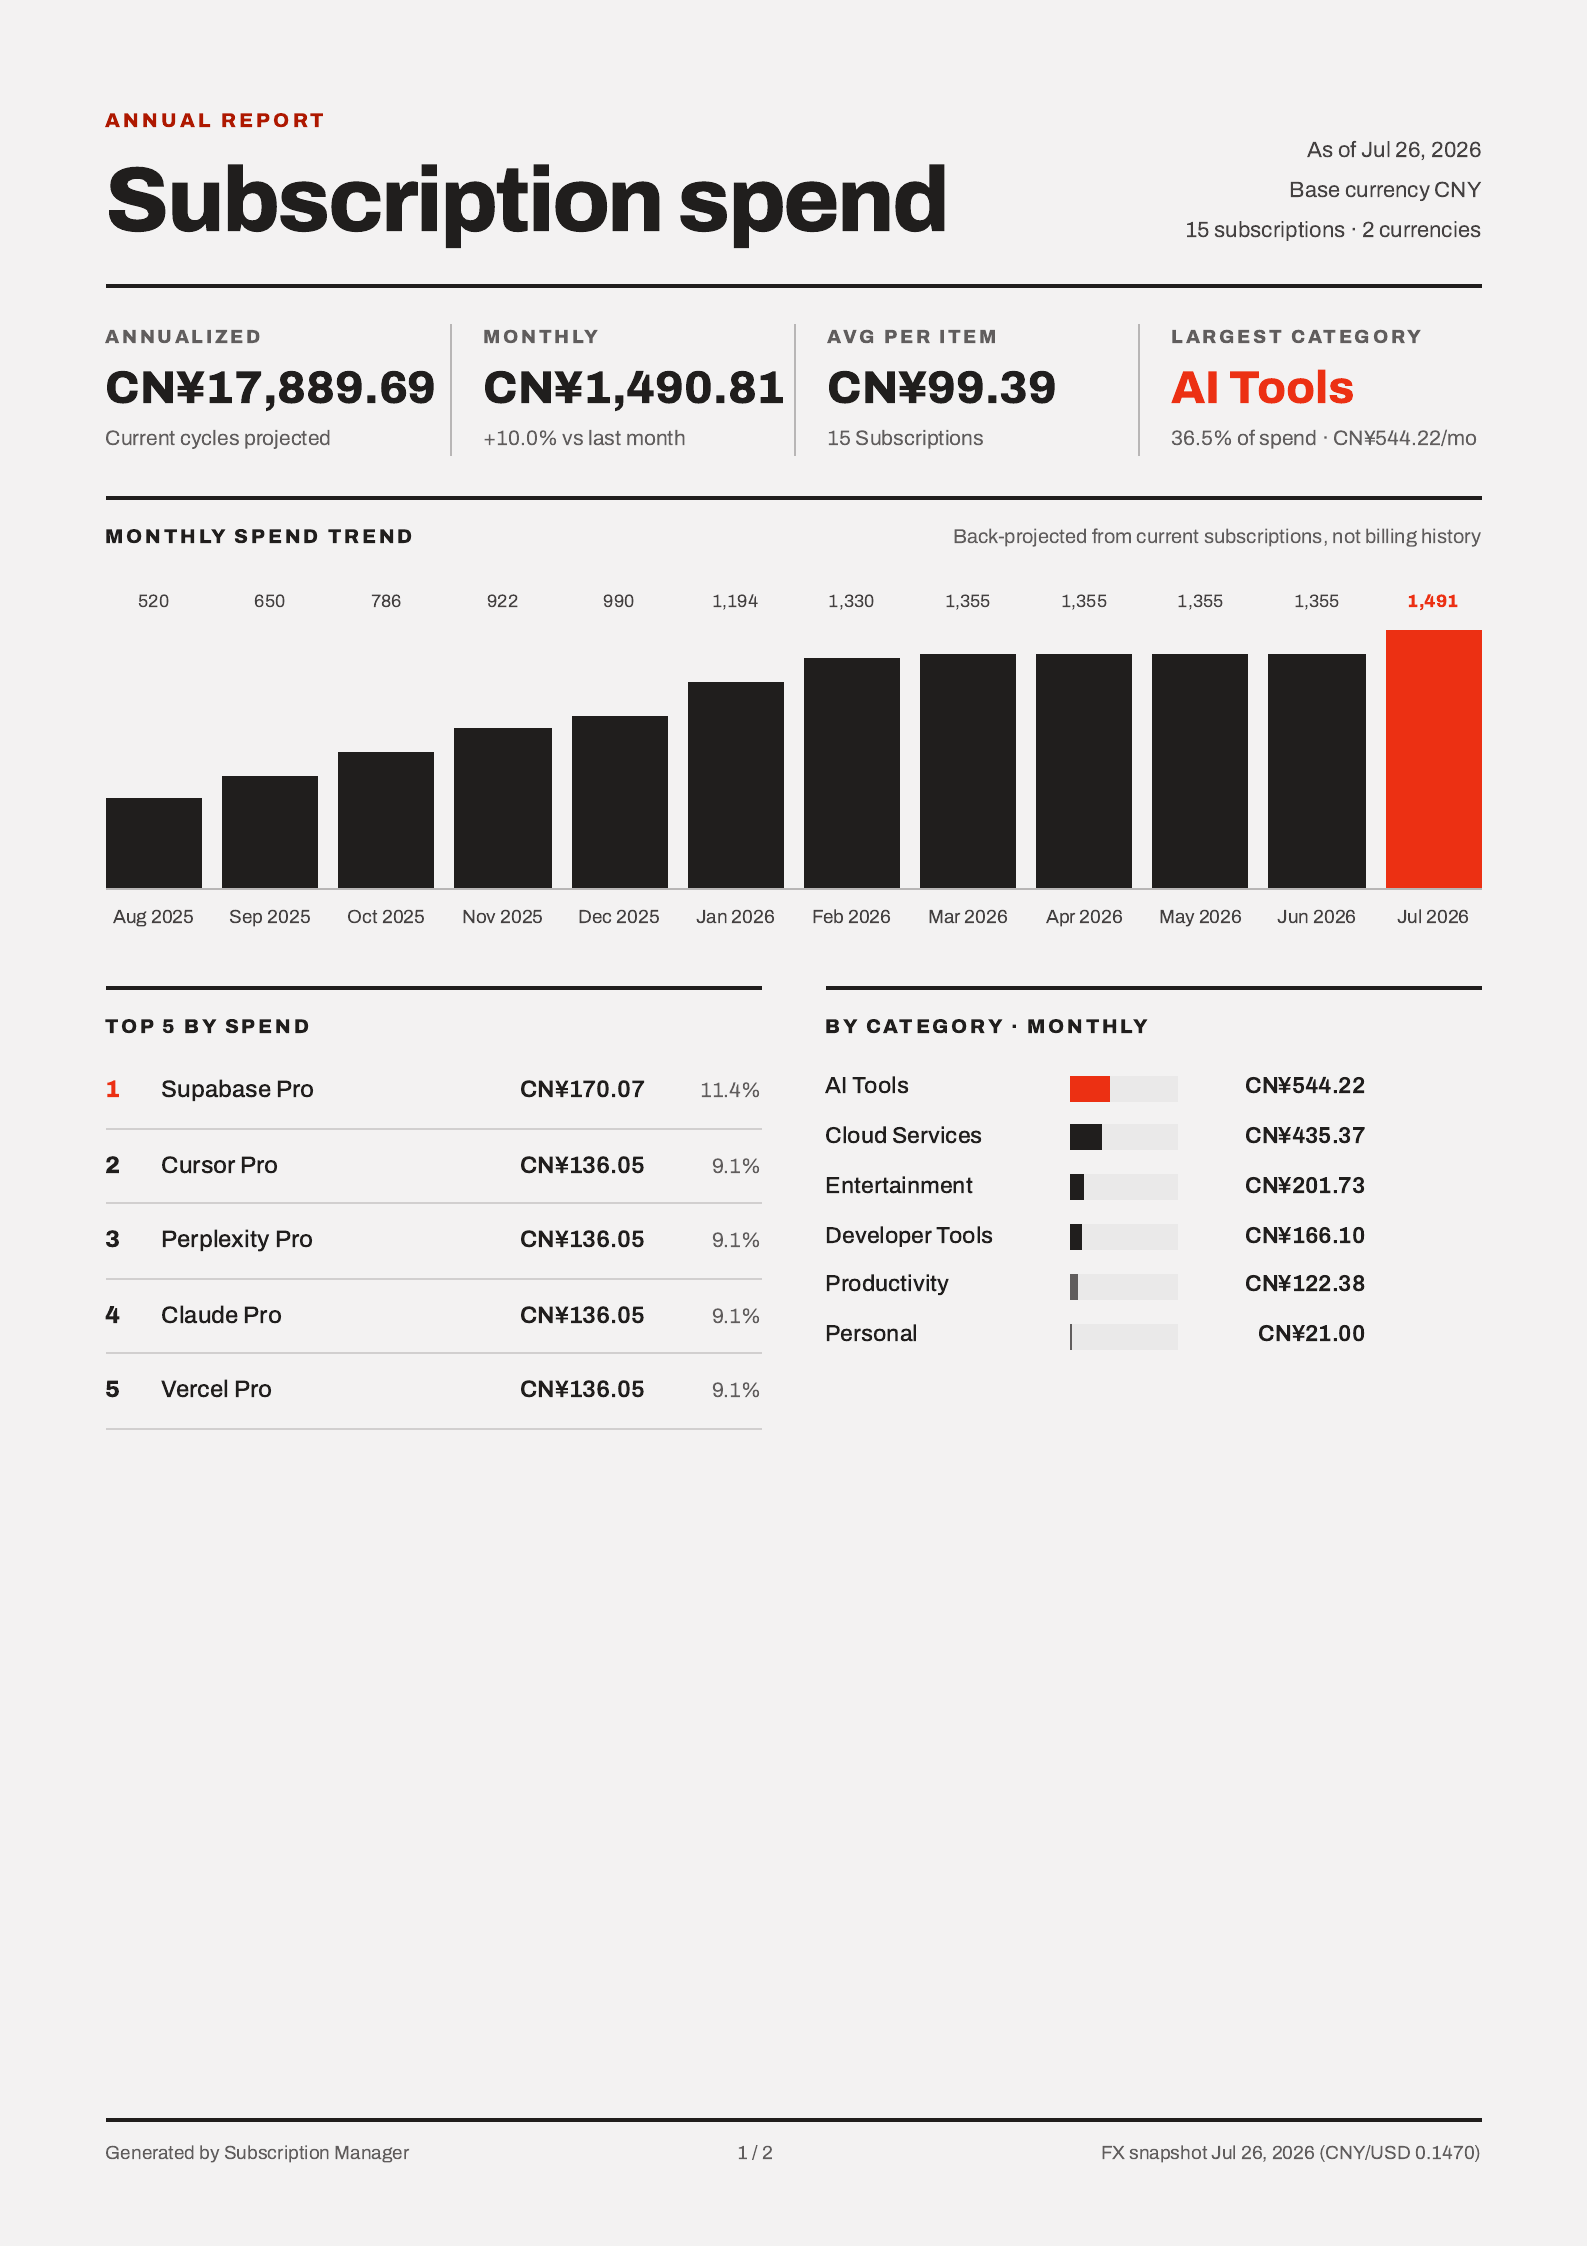
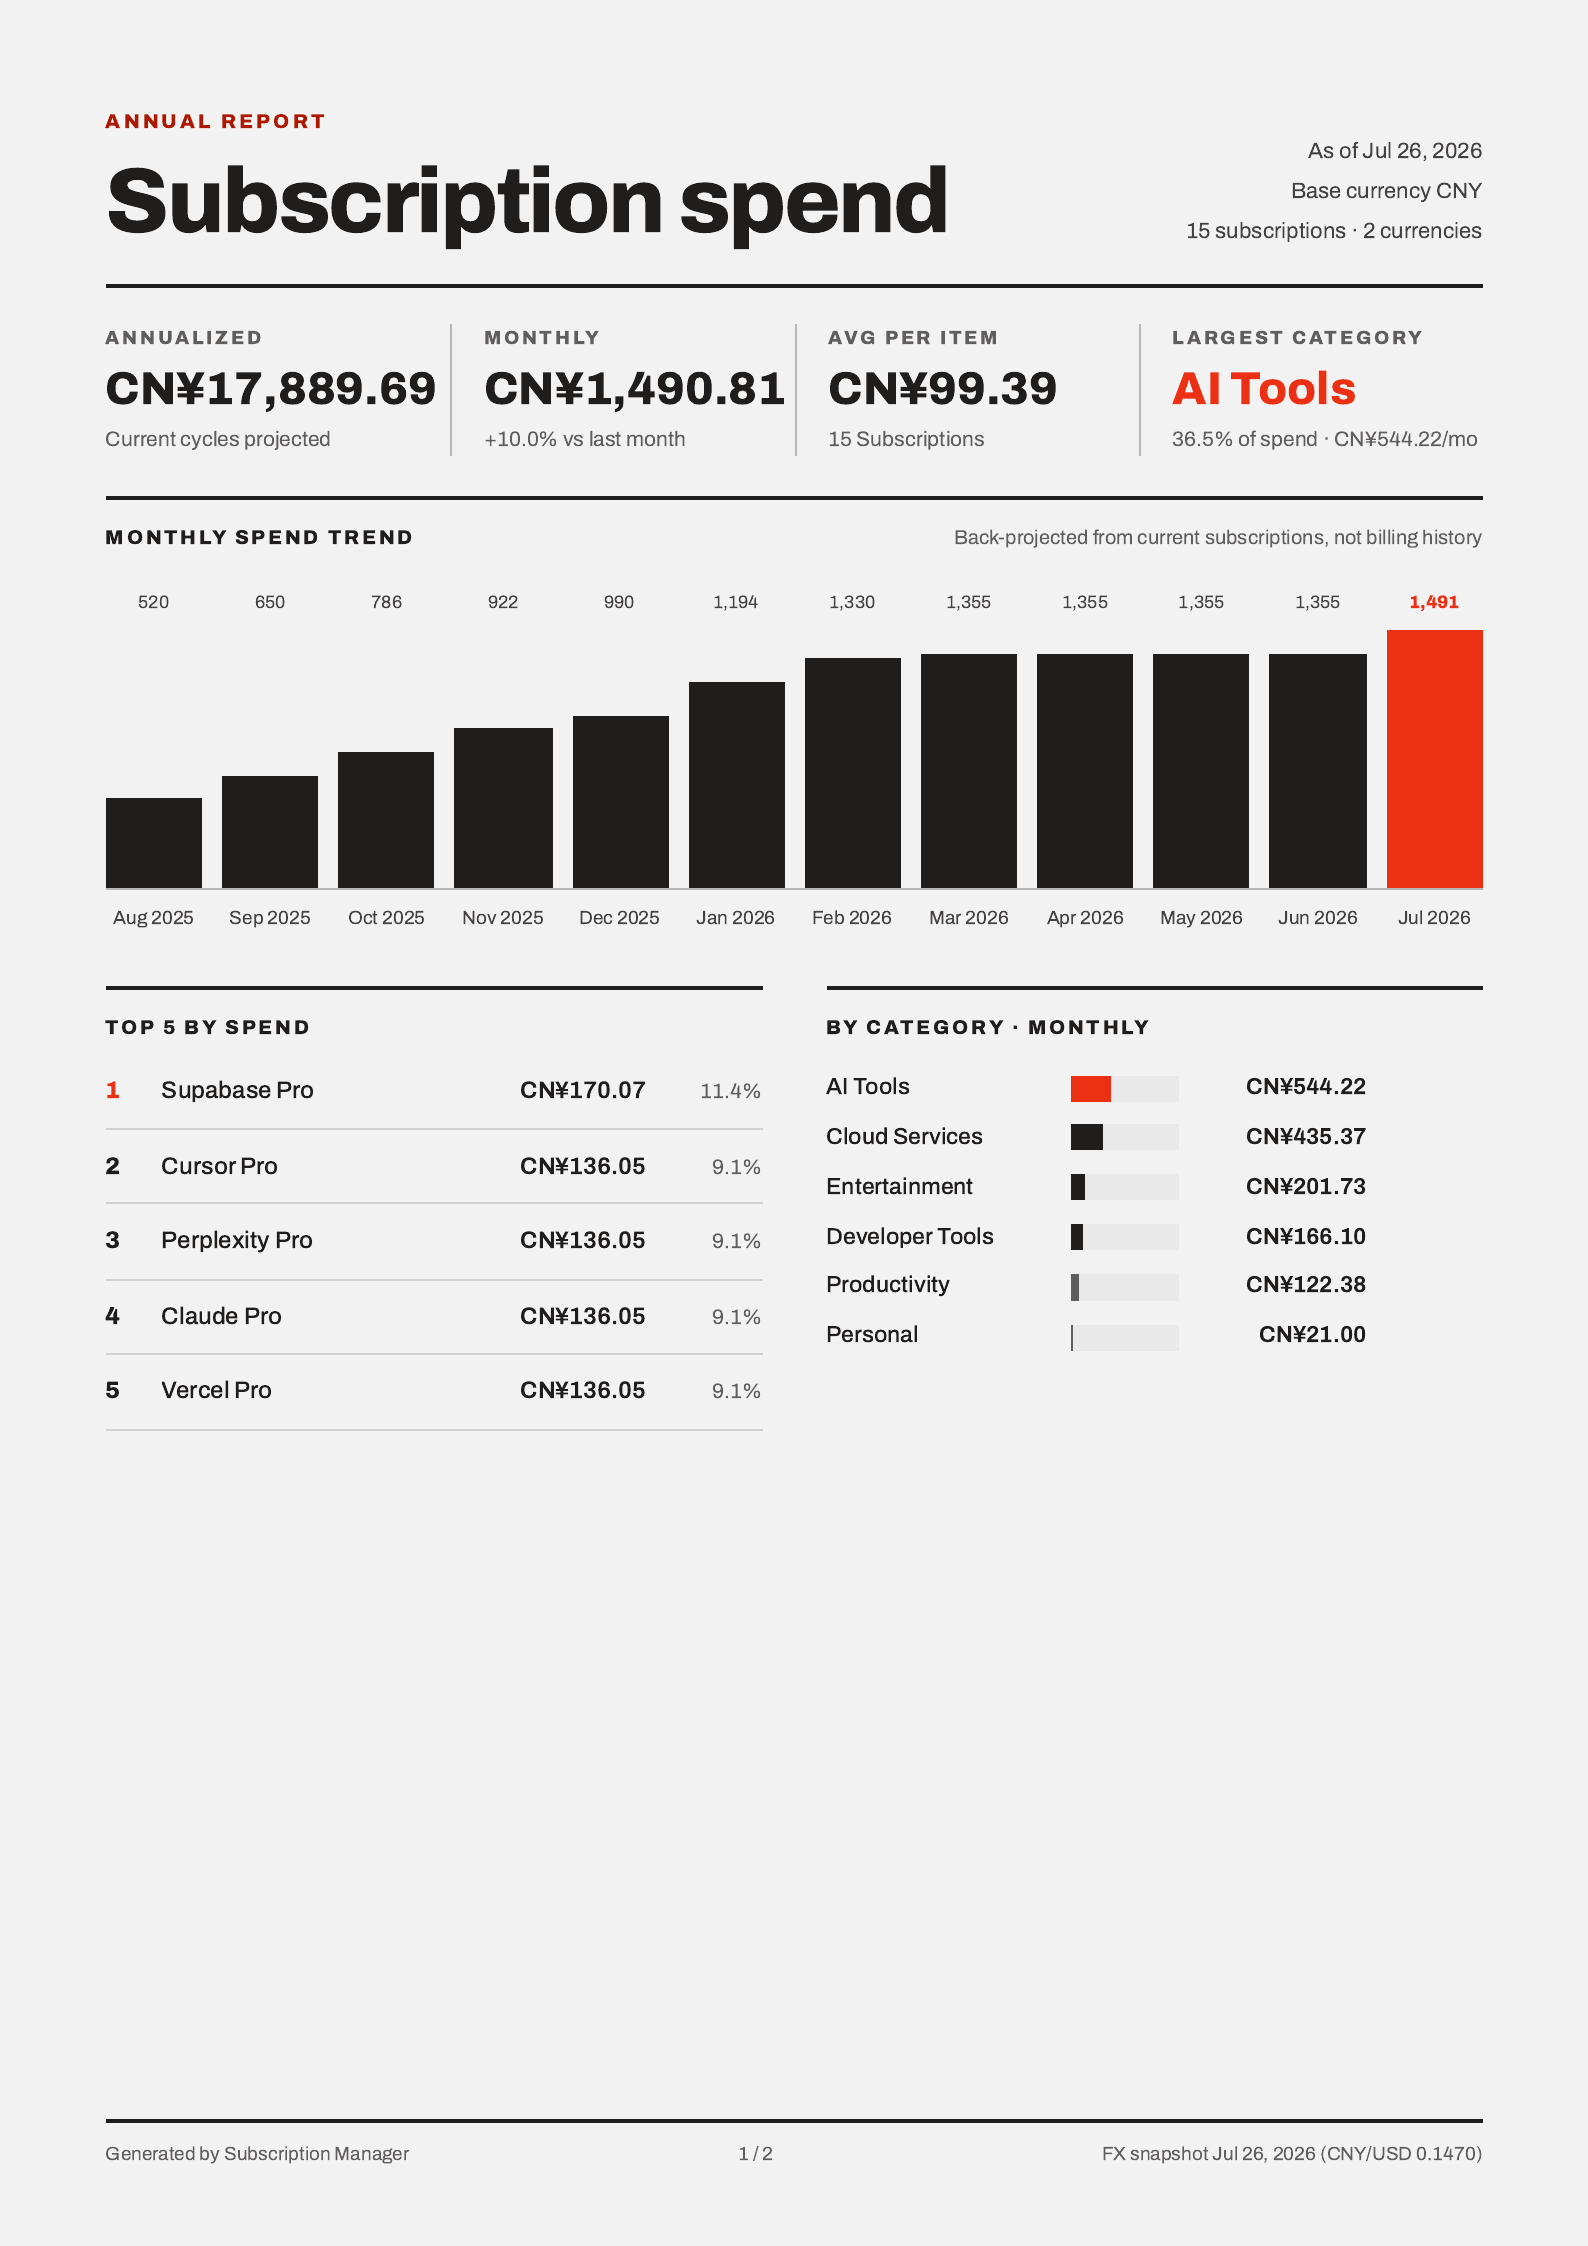
test: lock README PDF previews to identical A4 pixel boxes
Regenerate snapshot and annual product shots at 1588×2246 (A4 portrait)
so GitHub’s width="49%" pair renders at the same height, and assert that
aspect in CI to catch the tall-snapshot regression.

diff --git a/tests/utils/pdfReportPreviewAssets.test.ts b/tests/utils/pdfReportPreviewAssets.test.ts
@@ -1,0 +1,30 @@
+import test from 'node:test';
+import assert from 'node:assert/strict';
+import { readFileSync } from 'node:fs';
+
+const A4_PORTRAIT = 297 / 210;
+const SNAPSHOT = 'docs-site/images/product/pdf-report-snapshot.png';
+const ANNUAL = 'docs-site/images/product/pdf-report-annual.png';
+
+const pngSize = (path: string): { width: number; height: number } => {
+ const buffer = readFileSync(path);
+ assert.equal(buffer.subarray(1, 4).toString(), 'PNG', `${path} is not a PNG`);
+ return {
+  width: buffer.readUInt32BE(16),
+  height: buffer.readUInt32BE(20),
+ };
+};
+
+test('README snapshot and annual PDF previews share an A4 portrait box so equal-width heights match', () => {
+ const snapshot = pngSize(SNAPSHOT);
+ const annual = pngSize(ANNUAL);
+
+ // GitHub README renders both at width="49%". Displayed height follows intrinsic aspect.
+ // The pre-fix snapshot was 1588×2616 (ratio ≈ 1.647), which is why it stood taller.
+ assert.equal(snapshot.width, annual.width);
+ assert.equal(snapshot.height, annual.height);
+ assert.ok(
+  Math.abs(snapshot.height / snapshot.width - A4_PORTRAIT) < 0.002,
+  `preview aspect ${snapshot.height / snapshot.width} is not A4 portrait ${A4_PORTRAIT}`
+ );
+});

diff --git a/scripts/render-pdf-previews.ts b/scripts/render-pdf-previews.ts
@@ -149,29 +149,29 @@ const printPdf = (htmlPath: string, pdfPath: string) => {
  );
 };
 
+const README_PREVIEW_WIDTH = 1588;
+const README_PREVIEW_HEIGHT = 2246; // 1588 × 297/210 ≈ A4 portrait, matches the annual page box
+
 const rasterPage1 = (pdfPath: string, pngPath: string) => {
- try {
-  execFileSync('pdftoppm', ['-png', '-r', '192', '-f', '1', '-l', '1', '-singlefile', pdfPath, pngPath.replace(/\.png$/, '')], {
-   stdio: 'inherit',
-  });
-  return;
- } catch {
-  execFileSync(
-   'gs',
-   [
-    '-dSAFER',
-    '-dBATCH',
-    '-dNOPAUSE',
-    '-sDEVICE=png16m',
-    '-r192',
-    '-dFirstPage=1',
-    '-dLastPage=1',
-    `-sOutputFile=${pngPath}`,
-    pdfPath,
-   ],
-   { stdio: 'inherit' }
-  );
- }
+ const stem = pngPath.replace(/\.png$/, '');
+ execFileSync(
+  'pdftoppm',
+  [
+   '-png',
+   '-f',
+   '1',
+   '-l',
+   '1',
+   '-singlefile',
+   '-scale-to-x',
+   String(README_PREVIEW_WIDTH),
+   '-scale-to-y',
+   String(README_PREVIEW_HEIGHT),
+   pdfPath,
+   stem,
+  ],
+  { stdio: 'inherit' }
+ );
 };
 
 for (const variant of ['snapshot', 'annual'] as const) {
